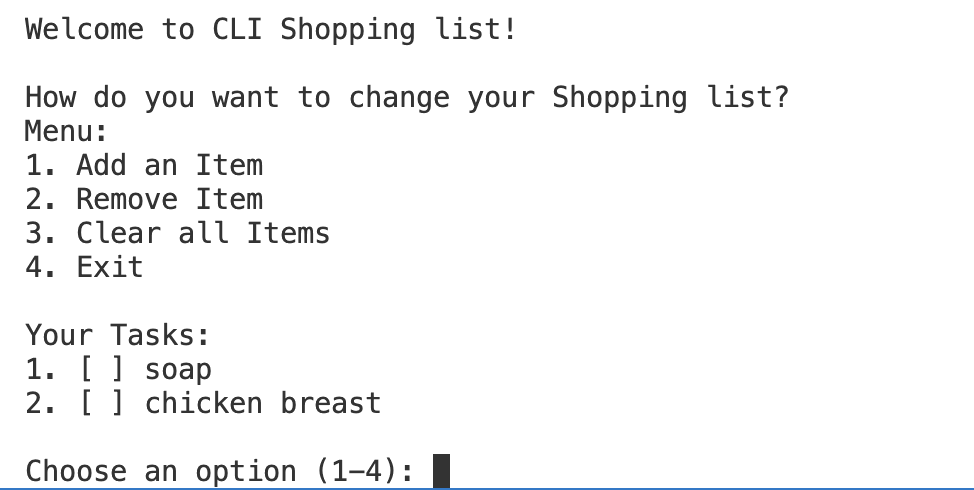
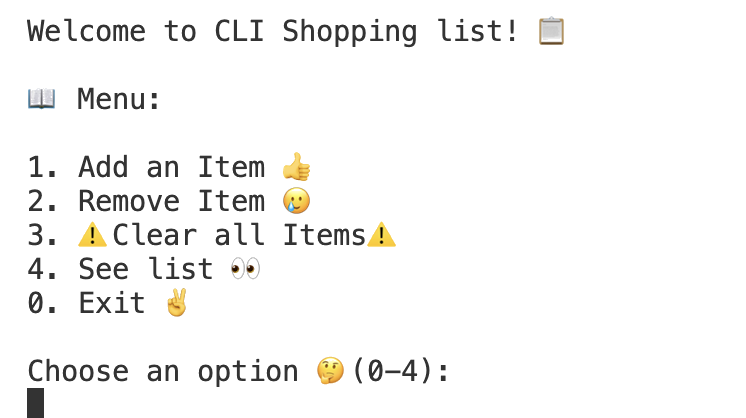
updated

diff --git a/README.md b/README.md
@@ -6,7 +6,11 @@ simple cli shopping list application!
 
 **What is this project?**
 
-Quick project to be able to keep track of my shopping list while im working on my code. 
+Quick project to be able to keep track of my shopping list while im working on my code.
+
+You can add and remove items from your list one at a time, or clear the whole list.
+
+You can see the list to check what you have added to it so you can see if you want to add more or less. 
 
 **Why was it built?**
 
